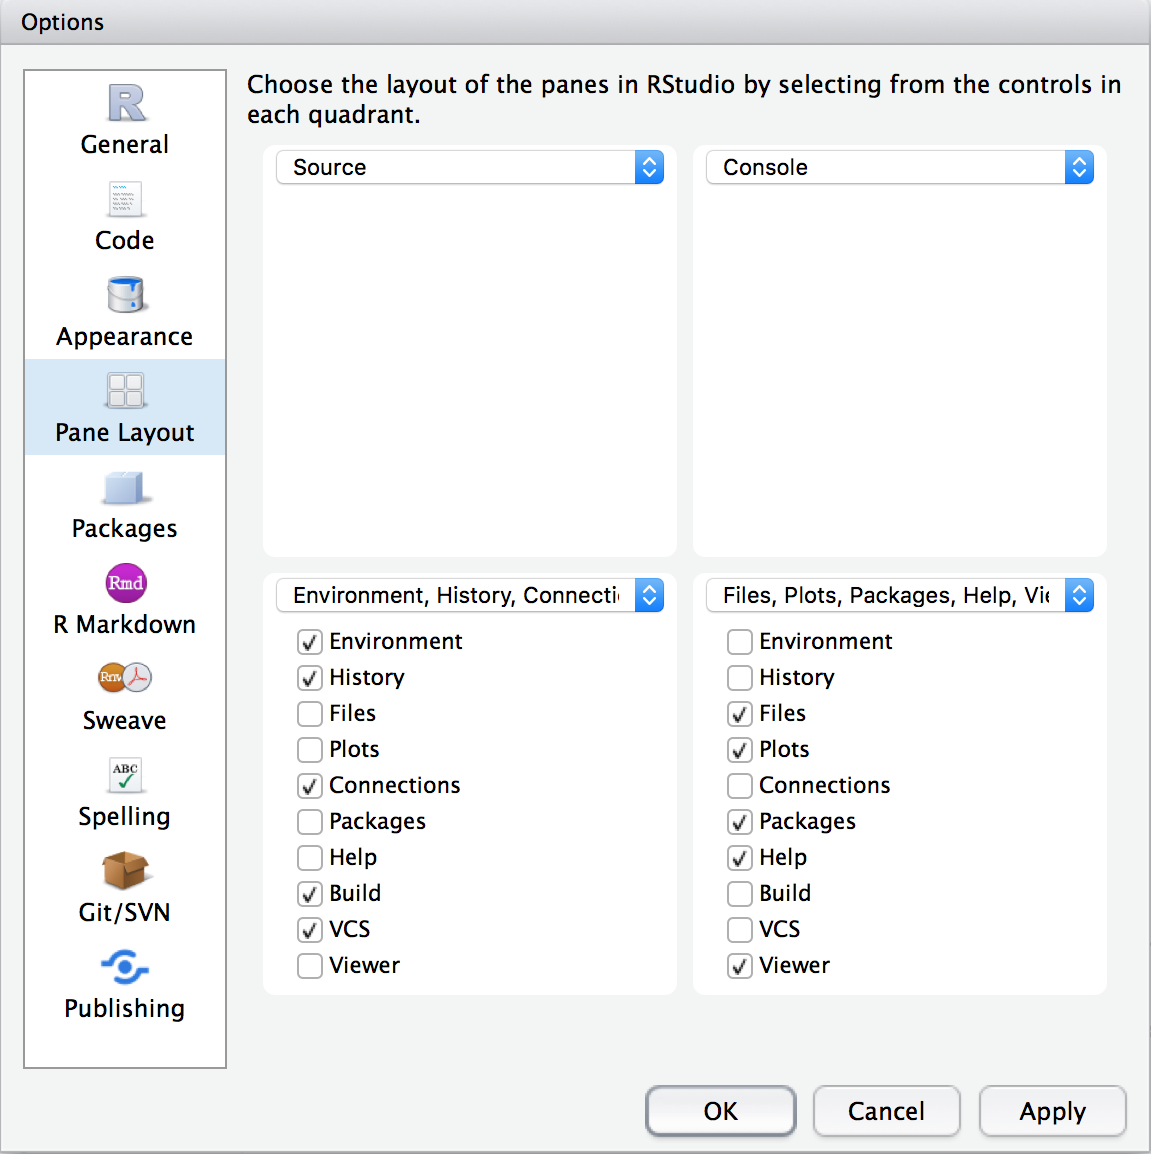
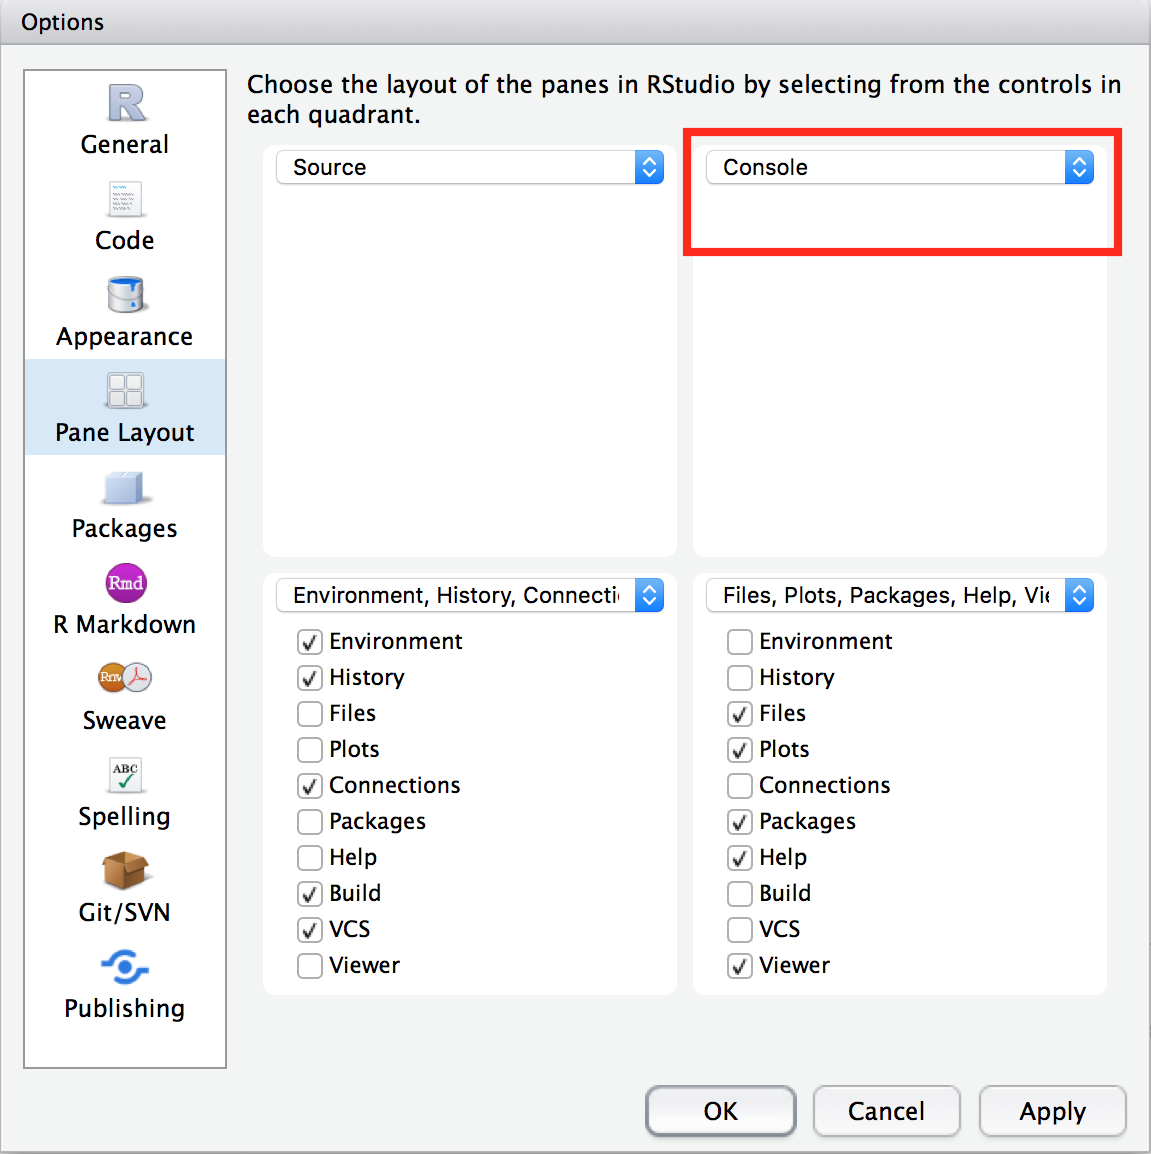
update slides

Changed region(s): [[0.5778, 0.0936, 0.9731, 0.2496]]

diff --git a/shiny-training.html b/shiny-training.html
@@ -98,9 +98,7 @@
 
 <slide class='segue dark nobackground level1'><hgroup class = 'auto-fadein'><h2>Overview</h2></hgroup><article  id="overview">
 
-</article></slide><slide class=''><hgroup><h2>Goals</h2></hgroup><article  id="goals">
-
-<h3>You will learn:</h3>
+</article></slide><slide class=''><hgroup><h2>Goals </h2><h3> You will learn:</h3></hgroup><article  id="goals-you-will-learn">
 
 <ul>
 <li>Shiny Fundamentals</li>
@@ -129,15 +127,14 @@
 </article></slide><slide class=''><hgroup><h2>Who?</h2></hgroup><article  id="who">
 
 <ul>
-<li>Biostatisticians</li>
-<li>Statisticians</li>
+<li>Biostatisticians &amp; Statisticians</li>
 <li>Data scientists</li>
 <li>R programmers</li>
 </ul>
 
 </article></slide><slide class=''><hgroup><h2>Why?</h2></hgroup><article  id="why">
 
-<ul>
+<ul class = 'build'>
 <li>Improve productivity. (Shiny allows you and your team to re-run calculation procedures by clicking buttons instead of running R scripts. It&#39;s easier to share an URL than a bunch of R files.)</li>
 <li>Let non-technical people use your models without knowing R.</li>
 <li>Tell your data stories to the world. (Shiny supports powerful visualizations. Most shiny apps you make are mobile friendly by default.)</li>
@@ -148,17 +145,17 @@
 
 </article></slide><slide class='segue dark nobackground level1'><hgroup class = 'auto-fadein'><h2>Demo</h2></hgroup><article  id="demo">
 
-</article></slide><slide class=''><hgroup><h2>Simple Examples</h2></hgroup><article  id="simple-examples">
+</article></slide><slide class=''><hgroup><h2>Simple examples</h2></hgroup><article  id="simple-examples">
 
-<ol>
+<ol class = 'build'>
 <li><p>Interactive plots. For example, a <a href='https://cabaceo.com/berkshire-vs-sp500/' title=''>bar chart</a> that shows the actual values when you mouse over the bars. A <a href='https://cabaceo.com/shiller-pe/' title=''>timeseries plot</a> that changes as you select different periods.</p></li>
 <li><p>Turn your ideas into reality. For example, this <a href='https://942kid.shinyapps.io/douban_explorer/' title=''>app</a> allows you to look up a user&#39;s most recent readings on Douban (豆瓣). Notice you can also embed google ads in the app. This <a href='https://cabaceo.shinyapps.io/tabelog-en/' title=''>app</a> provides a cleaner interface to search restaurants on Tabelog in English.</p></li>
 <li><p>Embed data analysis in your blog post so that readers can play with the results. <a href='https://uasnap.shinyapps.io/ex_leaflet/' title=''>Example</a>.</p></li>
 </ol>
 
-</article></slide><slide class=''><hgroup><h2>Complex Examples</h2></hgroup><article  id="complex-examples">
+</article></slide><slide class=''><hgroup><h2>Complex examples</h2></hgroup><article  id="complex-examples">
 
-<ol>
+<ol class = 'build'>
 <li><p>Super easy to run calculations under different scenarios or statistical procedures with different input parameters. For example, <a href='https://gmlang.shinyapps.io/SSCRC/' title=''>calculate sample sizes in multi-regional clinical trials</a>.</p></li>
 <li><p>Train and backtest various models, compare results and generate reports. For example, here&#39;s an <a href='http://hdnom.io' title=''>app</a> that does all of that for survival models.</p></li>
 <li><p>You can build an entire product/SaaS platform using Shiny. <a href='https://newsroom.ly' title=''>Example</a>.</p></li>
@@ -173,53 +170,69 @@
 
 </article></slide><slide class='segue dark nobackground level1'><hgroup class = 'auto-fadein'><h2>Setup</h2></hgroup><article  id="setup">
 
-</article></slide><slide class=''><hgroup><h2>Install Dev Tools</h2></hgroup><article  id="install-dev-tools">
+</article></slide><slide class=''><hgroup><h2>Install dev tools</h2></hgroup><article  id="install-dev-tools">
 
 <ul>
 <li><a href='https://www.r-project.org' title=''>R</a></li>
 <li><a href='https://www.rstudio.com/products/rstudio/download/' title=''>Rstudio</a></li>
 <li>Web broswer (Safari, Chrome or Firefox)</li>
+<li>Sign up for a FREE account at <a href='http://www.shinyapps.io' title=''>shinyapps.io</a></li>
 </ul>
 
-</article></slide><slide class=''><hgroup><h2>Change Rstudio Layout</h2></hgroup><article  id="change-rstudio-layout">
+</article></slide><slide class=''><hgroup><h2>Change Rstudio layout</h2></hgroup><article  id="change-rstudio-layout">
 
 <ul>
-<li>Rstudio -&gt; Preferences -&gt; Pane Layout <img src="img/pane-layout.png" alt="" style="width: 60%;"/></li>
+<li>Go to <strong>Rstudio -&gt; Preferences -&gt; Pane Layout</strong></li>
+<li>Change to as shown below.</li>
 </ul>
 
-</article></slide><slide class=''><hgroup><h2>Change Tab Width</h2></hgroup><article  id="change-tab-width">
+<p><img src="img/pane-layout.png" alt="" style="width: 55%;"/></p>
+
+</article></slide><slide class=''><hgroup><h2>Change tab width</h2></hgroup><article  id="change-tab-width">
 
 <ul>
 <li>Default is 2 spaces. Change to 8.</li>
 <li>This will force you to write shorter code. <img src="img/tab-width.png" alt="" style="width: 60%;"/></li>
 </ul>
 
-</article></slide><slide class=''><hgroup><h2>Show Margin Line</h2></hgroup><article  id="show-margin-line">
+</article></slide><slide class=''><hgroup><h2>Show margin line</h2></hgroup><article  id="show-margin-line">
 
 <ul>
-<li>Check &quot;Show margin&quot; and set &quot;Margin column&quot; to be 80.</li>
+<li>Check <strong>Show margin</strong> and set <strong>Margin column</strong> to be 80.</li>
 <li>When writing code, never go beyond this margin line.</li>
 <li>This will make your code easier to read. <img src="img/margin-col.png" alt="" style="width: 50%;"/></li>
 </ul>
 
-</article></slide><slide class=''><hgroup><h2>R Code Style</h2></hgroup><article  id="r-code-style">
+</article></slide><slide class=''><hgroup><h2>R code style</h2></hgroup><article  id="r-code-style">
 
 <p>When naming,</p>
 
 <ul>
-<li>use lower case
-
-<ul>
-<li>Good: student &lt;- 25; foo.R,</li>
-<li>Bad : Student &lt;- 25; Foo.R</li>
-</ul></li>
-<li>use _ to connect
-
-<ul>
-<li>Good: learn_shiny &lt;- function(start, end)</li>
-<li>Bad : learnShiny &lt;- function(start, end)</li>
-</ul></li>
 <li>names should be meaningful</li>
+<li>use lower case</li>
+</ul>
+
+<pre class = 'prettyprint lang-r'># Good: 
+student &lt;- 25
+foo.R, 
+
+# Bad: because of Uppercased 1st letter
+Student &lt;- 25
+Foo.R</pre>
+
+</article></slide><slide class=''><hgroup><h2>R code style cont.</h2></hgroup><article  id="r-code-style-cont.">
+
+<ul>
+<li>use _ to connect</li>
+</ul>
+
+<pre class = 'prettyprint lang-r'># Good: 
+learn_shiny &lt;- function(start, end)
+
+# Bad: because of camelCase 
+learnShiny&lt;- function(start, end)</pre>
+
+<ul>
 <li>use verb to name a function</li>
 </ul>
 
@@ -239,6 +252,18 @@ for (pkg in pkgs) {
 
 </article></slide><slide class=''><hgroup><h2>Hello, World!</h2></hgroup><article  id="hello-world">
 
+<p>Open <font color="blue">examples/00-hello-world-boring.R</font> in Rstudio.</p>
+
+<ul>
+<li>Click the arrow next to <strong>Run App</strong> -&gt; check <strong>Run External</strong> (This will open the app in browser.)</li>
+</ul>
+
+<p><img src="img/open-in-browser.png" alt="" style="width: 60%;"/></p>
+
+<p>Click <strong>Run App</strong>.</p>
+
+</article></slide><slide class=''><hgroup><h2>Read code</h2></hgroup><article  id="read-code">
+
 <pre class = 'prettyprint lang-r'>library(shiny)
 
 # make UI ---
@@ -252,67 +277,109 @@ server &lt;- function(input, output) {}
 # make Shiny app ----
 shinyApp(ui = ui, server = server)</pre>
 
-</article></slide><slide class=''><hgroup><h2>Self-introduction</h2></hgroup><article  id="self-introduction">
+</article></slide><slide class=''><hgroup><h2>Introduce yourself</h2></hgroup><article  id="introduce-yourself">
 
 <ul>
-<li>Add an input box to allow people to enter their names.</li>
-<li>Output one sentence to introduce people to the world.</li>
+<li>Add an input box to let people enter their names.</li>
+<li>Output a sentence to say hello to the world.</li>
 </ul>
 
-<h3><strong>run examples/01-hello-world.R</strong></h3>
+<p>Run <font color="blue">examples/01-hello-world.R</font></p>
 
-</article></slide><slide class=''><hgroup><h2>Sidebar Layout</h2></hgroup><article  id="sidebar-layout">
+</article></slide><slide class=''><hgroup><h2>Read code</h2></hgroup><article  id="read-code-1">
 
-<h3><strong>run examples/01-hello-world-w-sidebar.R</strong></h3>
+<pre class = 'prettyprint lang-r'># make UI ---
+ui &lt;- fluidPage(
+        titlePanel(&quot;Hello World!&quot;),
+<b>        mainPanel(
+                textInput(&quot;my_name&quot;, 
+                          label = &quot;Enter your name:&quot;, 
+                          value = &quot;Harry&quot;),
+                textOutput(&quot;self_intro&quot;)
+        )
+</b>)
+
+# make server ---
+server &lt;- function(input, output) {
+<b>        output$self_intro = renderText(
+                paste(&quot;My name is&quot;, input$my_name)
+        )
+</b>}</pre>
+
+</article></slide><slide class=''><hgroup><h2>Use sidebar</h2></hgroup><article  id="use-sidebar">
+
+<p>Run <font color="blue">examples/01-hello-world-w-sidebar.R</font></p>
+
+<pre class = 'prettyprint lang-r'>ui &lt;- fluidPage(
+        titlePanel(&quot;Hello World!&quot;),
+<b>        sidebarLayout(
+                sidebarPanel(
+                        textInput(&quot;my_name&quot;, 
+                                  label = &quot;Enter your name:&quot;, 
+                                  value = &quot;Harry&quot;)
+                        ),
+                
+                mainPanel(
+                        textOutput(&quot;self_intro&quot;)
+                )
+        )
+</b>)</pre>
 
 </article></slide><slide class=''><hgroup><h2>Exercise 1</h2></hgroup><article  id="exercise-1">
 
 <ul>
 <li>Make a shiny app that draws a histogram of some made-up data, letting users specify the number of bins.</li>
-<li>Do it together.</li>
 </ul>
 
-<h3><strong>open exercises/01-plot-histogram.R</strong></h3>
+<p>Complete <font color = "red">exercises/01-plot-histogram.R</font> together.</p>
 
-</article></slide><slide class=''><hgroup><h2>Basic structure of UI and server</h2></hgroup><article  id="basic-structure-of-ui-and-server">
+</article></slide><slide class=''><hgroup><h2>Basic structure of Shiny App</h2></hgroup><article  id="basic-structure-of-shiny-app">
 
-<h3>UI elements:</h3>
+<h3>UI:</h3>
 
-<ul>
+<ul class = 'build'>
 <li>fluidPage()
 
-<ul>
+<ul class = 'build'>
 <li>sidebarLayout()
 
-<ul>
+<ul class = 'build'>
 <li>sidebarPanel()</li>
 <li>mainPanel()</li>
 </ul></li>
 </ul></li>
 </ul>
 
-<h3>server elements:</h3>
+<h3>server:</h3>
 
-<ul>
+<ul class = 'build'>
 <li>renderText()</li>
 <li>renderPlot()</li>
 </ul>
 
-</article></slide><slide class=''><hgroup><h2>Inside UI</h2></hgroup><article  id="inside-ui">
+</article></slide><slide class=''><hgroup><h2>UI</h2></hgroup><article  id="ui-1">
 
 <h3>Input elements (inside of <strong>sidebarPanel()</strong>):</h3>
 
-<ul>
+<ul class = 'build'>
 <li>textInput()</li>
 <li>numericInput()</li>
 </ul>
 
 <h3>Output elements (inside of <strong>mainPanel()</strong>):</h3>
 
-<ul>
+<ul class = 'build'>
 <li>textOutput()</li>
 <li>plotOutput()</li>
 </ul>
+
+</article></slide><slide class=''><hgroup><h2>server</h2></hgroup><article  id="server-1">
+
+<pre class = 'prettyprint lang-r'>server &lt;- function(input, output) {
+        1. takes user supplied values from input
+        2. run computation
+        3. return or display results through output
+}</pre>
 
 </article></slide><slide class=''><hgroup><h2>Exercise 2</h2></hgroup><article  id="exercise-2">
 
@@ -329,11 +396,19 @@ shinyApp(ui = ui, server = server)</pre>
 <li>5 ~ 10 minutes</li>
 </ul>
 
-</article></slide><slide class=''><hgroup><h2>Deploy a Shiny App</h2></hgroup><article  id="deploy-a-shiny-app">
+</article></slide><slide class=''><hgroup><h2>Deploy Shiny App</h2></hgroup><article  id="deploy-shiny-app">
 
-<h3><strong>Need to show Harry and Binqi how to do it.</strong> Delete this line afterwards.</h3>
+<ul>
+<li>Click the blue button.</li>
+</ul>
 
-<h3>Sign up at <a href='http://www.shinyapps.io' title=''>shinyapps.io</a>.</h3>
+<p><img src="img/deploy.png" alt="" style="width: 100%;"/></p>
+
+</article></slide><slide class=''><hgroup><h2>Break (5 minutes)</h2></hgroup><article  id="break-5-minutes">
+
+</article></slide><slide class='segue dark nobackground level1'><hgroup class = 'auto-fadein'><h2>Bigger Shiny Apps</h2></hgroup><article  id="bigger-shiny-apps">
+
+</article></slide><slide class=''><hgroup><h2>ui.R &amp; server.R</h2></hgroup><article  id="ui.r-server.r">
 
 </article></slide><slide class='segue dark nobackground level1'><hgroup class = 'auto-fadein'><h2>Reactive Programming</h2></hgroup><article  id="reactive-programming">
 
@@ -349,7 +424,7 @@ shinyApp(ui = ui, server = server)</pre>
 
 </article></slide><slide class=''><hgroup><h2>Resources</h2></hgroup><article  id="resources">
 
-<ul>
+<ul class = 'build'>
 <li><a href='http://style.tidyverse.org' title=''>R style guide</a>.</li>
 <li>Rstudio&#39;s guided <a href='https://shiny.rstudio.com/tutorial/' title=''>tutorial</a> for beginners.</li>
 <li>Rstudio&#39;s technical <a href='https://shiny.rstudio.com/articles/' title=''>articles</a>.</li>
